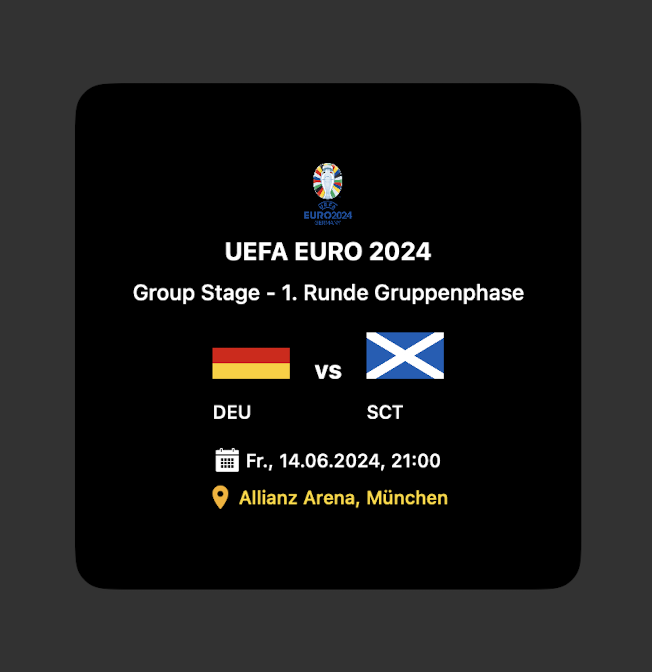
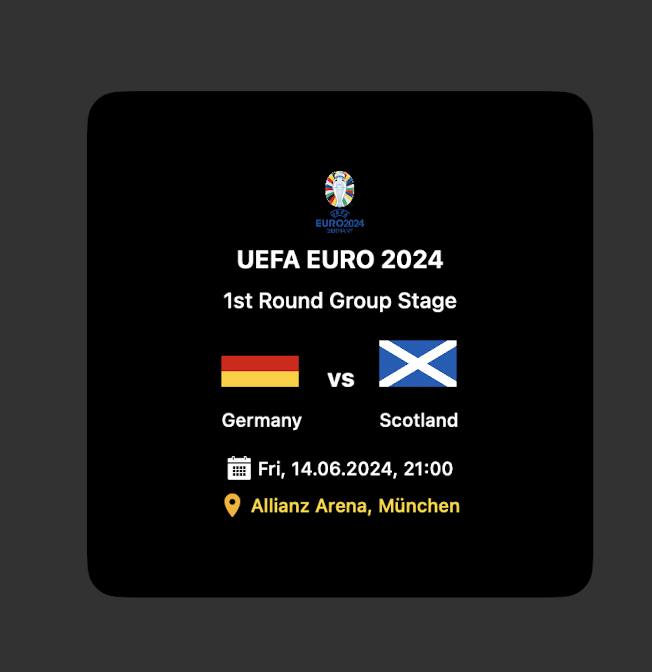
Add more langauge features

Changed region(s): [[0.184, 0.2188, 0.7975, 0.7812], [0.092, 0.125, 0.8896, 0.875], [0.1534, 0.1562, 0.9202, 0.9062]]

diff --git a/euro-2024-ticker-widget.js b/euro-2024-ticker-widget.js
@@ -1,7 +1,7 @@
 /* --------------------------------------------------------------
 Script: euro-2024-ticker-widget
 Author: Nico Wickersheim
-Version: 1.0.0
+Version: 1.0.1
 
 Description:
 Displays the nearest upcoming match of the UEFA EURO 2024 in a widget. 
@@ -10,6 +10,7 @@ The widget shows the group name, the team icons and names, the match date and ti
 Changelog:
 
 1.0.0: Initialization
+1.0.1: Added support for different languages (English and German)
 -------------------------------------------------------------- */
 
 // Fetch match data from the API
@@ -71,6 +72,26 @@ const teamNamesEN = [
   "Czech Republic",
 ];
 
+const groupNameDE = [
+  "1. Runde Gruppenphase",
+  "2. Runde Gruppenphase",
+  "3. Runde Gruppenphase",
+  "Achtelfinale",
+  "Viertelfinale",
+  "Halbfinale",
+  "Finale",
+];
+
+const groupNameEN = [
+  "1st Round Group Stage",
+  "2nd Round Group Stage",
+  "3rd Round Group Stage",
+  "Round of 16",
+  "Quarterfinals",
+  "Semifinals",
+  "Final",
+];
+
 const dayNamesDE = ["So", "Mo", "Di", "Mi", "Do", "Fr", "Sa"];
 const dayNamesEN = ["Sun", "Mon", "Tue", "Wed", "Thu", "Fri", "Sat"];
 
@@ -96,6 +117,12 @@ function getTeamName(teamName) {
   console.log(index);
   if (index === -1) return teamName;
   return language === "de" ? teamNamesDE[index] : teamNamesEN[index];
+}
+
+function getGroupName(groupName) {
+  const index = groupNameDE.indexOf(groupName);
+  if (index === -1) return groupName;
+  return language === "de" ? groupNameDE[index] : groupNameEN[index];
 }
 
 // Find the nearest upcoming match
@@ -148,7 +175,7 @@ title.textColor = Color.white();
 // Match Info
 widget.addSpacer(8);
 
-let matchInfo = widget.addText(`Group Stage - ${matchData.group.groupName}`);
+let matchInfo = widget.addText(getGroupName(matchData.group.groupName));
 matchInfo.font = Font.mediumSystemFont(14);
 matchInfo.centerAlignText();
 matchInfo.textColor = Color.white();

diff --git a/README.md b/README.md
@@ -26,7 +26,7 @@ This is a Scriptable widget that displays information about the next Euro 2024 m
 
 ## Usage
 
-No parameters at the moment.
+You can set the language on line 18 by set the const langauge to "en" for english or "de" for german.
 
 ## Links
 
